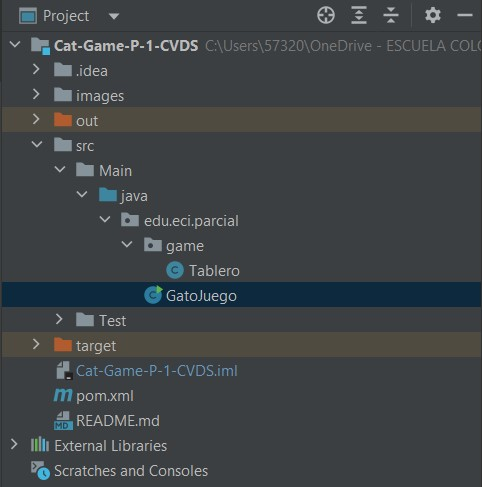
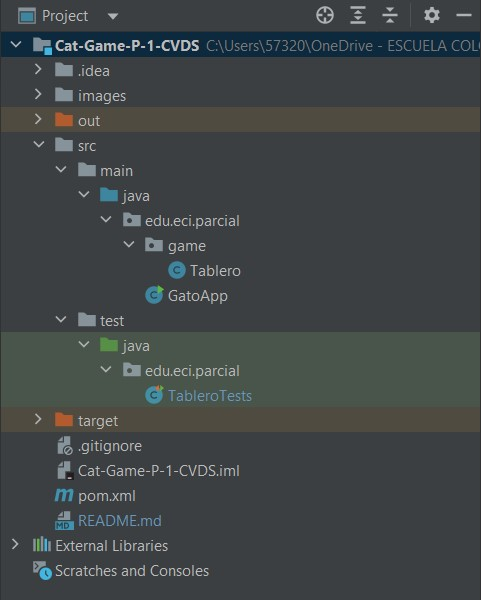
Final commit

Changed region(s): [[0.0, 0.0, 0.9979, 0.9856], [0.0, 0.8932, 0.0312, 0.924]]

diff --git a/src/test/java/edu/eci/parcial/TableroTests.java b/src/test/java/edu/eci/parcial/TableroTests.java
@@ -10,30 +10,46 @@ import org.junit.Test;
 public class TableroTests {
 
     @Test
-    public void deberiaPonerX() {
-        Tablero.play(0,0,"X");
-        Assert.assertEquals("X",Tablero.getJuego()[0][0]);
+    public void givenPlayer_whenTableroIsEmpty_thenCreatePlayer() {
+        //Arrange
+        String player = "X";
+        //Act
+        Tablero.play(0,0,player);
+        //Assert
+        Assert.assertEquals("X",Tablero.getInstance()[0][0]);
     }
 
     @Test
-    public void deberiaPonerO() {
-        Tablero.play(0, 0, "O");
-        Assert.assertEquals("O", Tablero.getJuego()[0][0]);
+    public void givenMachine_whenTableroIsEmpty_thenCreateMachine() {
+        //Arrange
+        String machine = "O";
+        //Act
+        Tablero.play(0, 0, machine);
+        //Assert
+        Assert.assertEquals("O", Tablero.getInstance()[0][0]);
     }
 
     @Test
-    public void deberiaGanarX() {
-        Tablero.play(0, 0, "X");
-        Tablero.play(1, 1, "X");
-        Tablero.play(2, 2, "X");
-        assertTrue(Tablero.winner("X"));
+    public void givenDifferentPlayerPositions_whenTableroIsEmpty_thenVerifyPlayerWinner() {
+        //Arrange
+        String player = "X";
+        //Act
+        Tablero.play(0, 0, player);
+        Tablero.play(1, 1, player);
+        Tablero.play(2, 2, player);
+        //Assert
+        assertTrue(Tablero.winner(player));
     }
 
     @Test
-    public void deberiaGanarO() {
-        Tablero.play(0, 0, "O");
-        Tablero.play(1, 1, "O");
-        Tablero.play(2, 2, "O");
-        assertTrue(Tablero.winner("O"));
+    public void givenDifferentMachinePositions_whenTableroIsEmpty_thenVerifyMachineWinner() {
+        //Arrange
+        String machine = "O";
+        //Act
+        Tablero.play(0, 0, machine);
+        Tablero.play(1, 1, machine);
+        Tablero.play(2, 2, machine);
+        //Assert
+        assertTrue(Tablero.winner(machine));
     }
 }

diff --git a/src/main/java/edu/eci/parcial/game/Tablero.java b/src/main/java/edu/eci/parcial/game/Tablero.java
@@ -78,7 +78,10 @@ public class Tablero{
         return false;
     }
 
-    public static String[][] getJuego(){
+    public static String[][] getInstance(){
+        if(juego == null){
+            juego = Tablero.draw();
+        }
         return juego;
     }
 

diff --git a/README.md b/README.md
@@ -23,7 +23,12 @@ El juego del gato es un proyecto tomado del repositorio de GustavoAlv1998, en cu
 - Al clonar y tener el proyecto en nuestra máquina empezamos a analizar su composición y funcionamiento.
 - Identificamos las malas prácticas aplicadas y planteamos una solución.
 - En este proyecto se identificaron varias malas prácticas como: El incumplimiento del principio *SOLID* *Single responsability,* ya que en una sola clase estaban todos los métodos e implementaciones, teníamos mal nombramiento en las clases y en las variables, no teniamos ningun tipo de comentario descriptivo y un mal uso de la identación.
-- Con base en lo mencionado en el numeral anterior reestructuramos el código usando los patrones de diseño, en este caso "Structural Patterns".
+- Con base en lo mencionado en el numeral anterior reestructuramos el código usando el patron **Singleton** correspondiente a los patrones creacionales.
+
+![Imagen](https://github.com/Art2416/Cat-Game-P-1-CVDS/blob/master/images/main.jpg)
+
+![Imagen](https://github.com/Art2416/Cat-Game-P-1-CVDS/blob/master/images/getI.jpg)
+
 - Refactorizamos el código, puesto que se estaba violando uno de los principios *SOLID* más importantes, entonces rediseñamos los paquetes y creamos una clase aparte (Tablero) donde creamos diferentes métodos para la creación, actualización e impresión del "juego del gato".
 
 Estructura antes:
@@ -42,9 +47,21 @@ Ejemplo de la documentación en el método Draw:
 ![Imagen](https://github.com/Art2416/Cat-Game-P-1-CVDS/blob/master/images/draw.jpg)
 
 - Optimizamos la ejecución del método "Draw", ya que previamente se hacía la ejecución de este de forma duplicada tanto para el jugador como para la máquina.    
-- En el repositorio tampoco se ven pruebas, así que a continuación mostraremos imágenes adjuntas que reflejan el error:
+- En el repositorio tampoco se ven pruebas, así que a continuación mostraremos imágenes adjuntas:
 
-### Capturas:
+
+### Capturas pruebas de unidad:
+
+![Imagen](https://github.com/Art2416/Cat-Game-P-1-CVDS/blob/master/images/UnitTests.jpg)
+
+![Imagen](https://github.com/Art2416/Cat-Game-P-1-CVDS/blob/master/images/UnitTests1.jpg)
+
+![Imagen](https://github.com/Art2416/Cat-Game-P-1-CVDS/blob/master/images/UnitTests2.jpg)
+
+
+Como podemos ver en la captura anterior creamos las pruebas de unidad, pero para ello se tuvo que implementar métodos y validaciones en la nueva clase Tablero. Implementamos la estructura de nombramiento para pruebas (given_when_then) y el patron AAA.
+
+### Capturas pruebas de aceptación:
 1. Caso donde se leen 2 números fuera de rango: 
 ![Imagen](https://github.com/Art2416/Cat-Game-P-1-CVDS/blob/master/images/C1.jpg)
 
